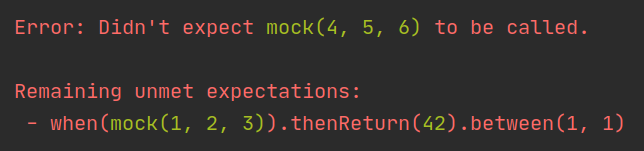
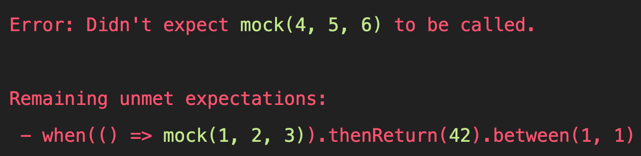
docs: Update screenshots with new `when` syntax

Changed region(s): [[0.0312, 0.7417, 0.9984, 0.9272], [0.0, 0.106, 0.9048, 0.2384], [0.0, 0.5563, 0.5616, 0.7152]]

diff --git a/README.md b/README.md
@@ -63,19 +63,29 @@ console.log(foo.bar(23)); // 'I am strong!'
 
 The created mock matches the mocked type so all expectations are type safe. Moreover, refactorings in an IDE will also cover your expectations.
 
-![rename-interface](media/rename-interface.gif)
+![Renaming production code and test code](media/rename-refactor.gif)
 
 ### Useful error messages
 
 Error messages include the property that has been accessed, any arguments passed to it and any remaining unmet expectations.
 
-![error messages](media/error-messages.png)
+```typescript
+import { mock, when } from 'strong-mock';
+
+const fn = mock<(a: number, b: number, c: number) => number>();
+
+when(() => fn(1, 2, 3)).thenReturn(42);
+
+fn(4, 5, 6);
+```
+
+![Test output showing details about mock expectations](media/error-messages.png)
 
 ### Type safe argument matchers
 
 Optional argument matchers allow you to create complex expectations, while still maintaining type safety.
 
-![type safe matchers](./media/type-safe-matchers.png)
+![Type safe matcher showing a type error](media/type-safe-matchers.png)
 
 ## Installation
 
@@ -372,8 +382,6 @@ console.log(foo.bar(23)); // 'called 23'
 ```
 
 The function in `thenReturn()` will be type checked against the actual interface, so you can make sure you're passing in an implementation that makes sense. Moreover, refactoring the interface will also refactor the expectation (in a capable IDE).
-
-![call-rename](media/rename-args.gif)
 
 ### Why does accessing an unused method throw?
 
